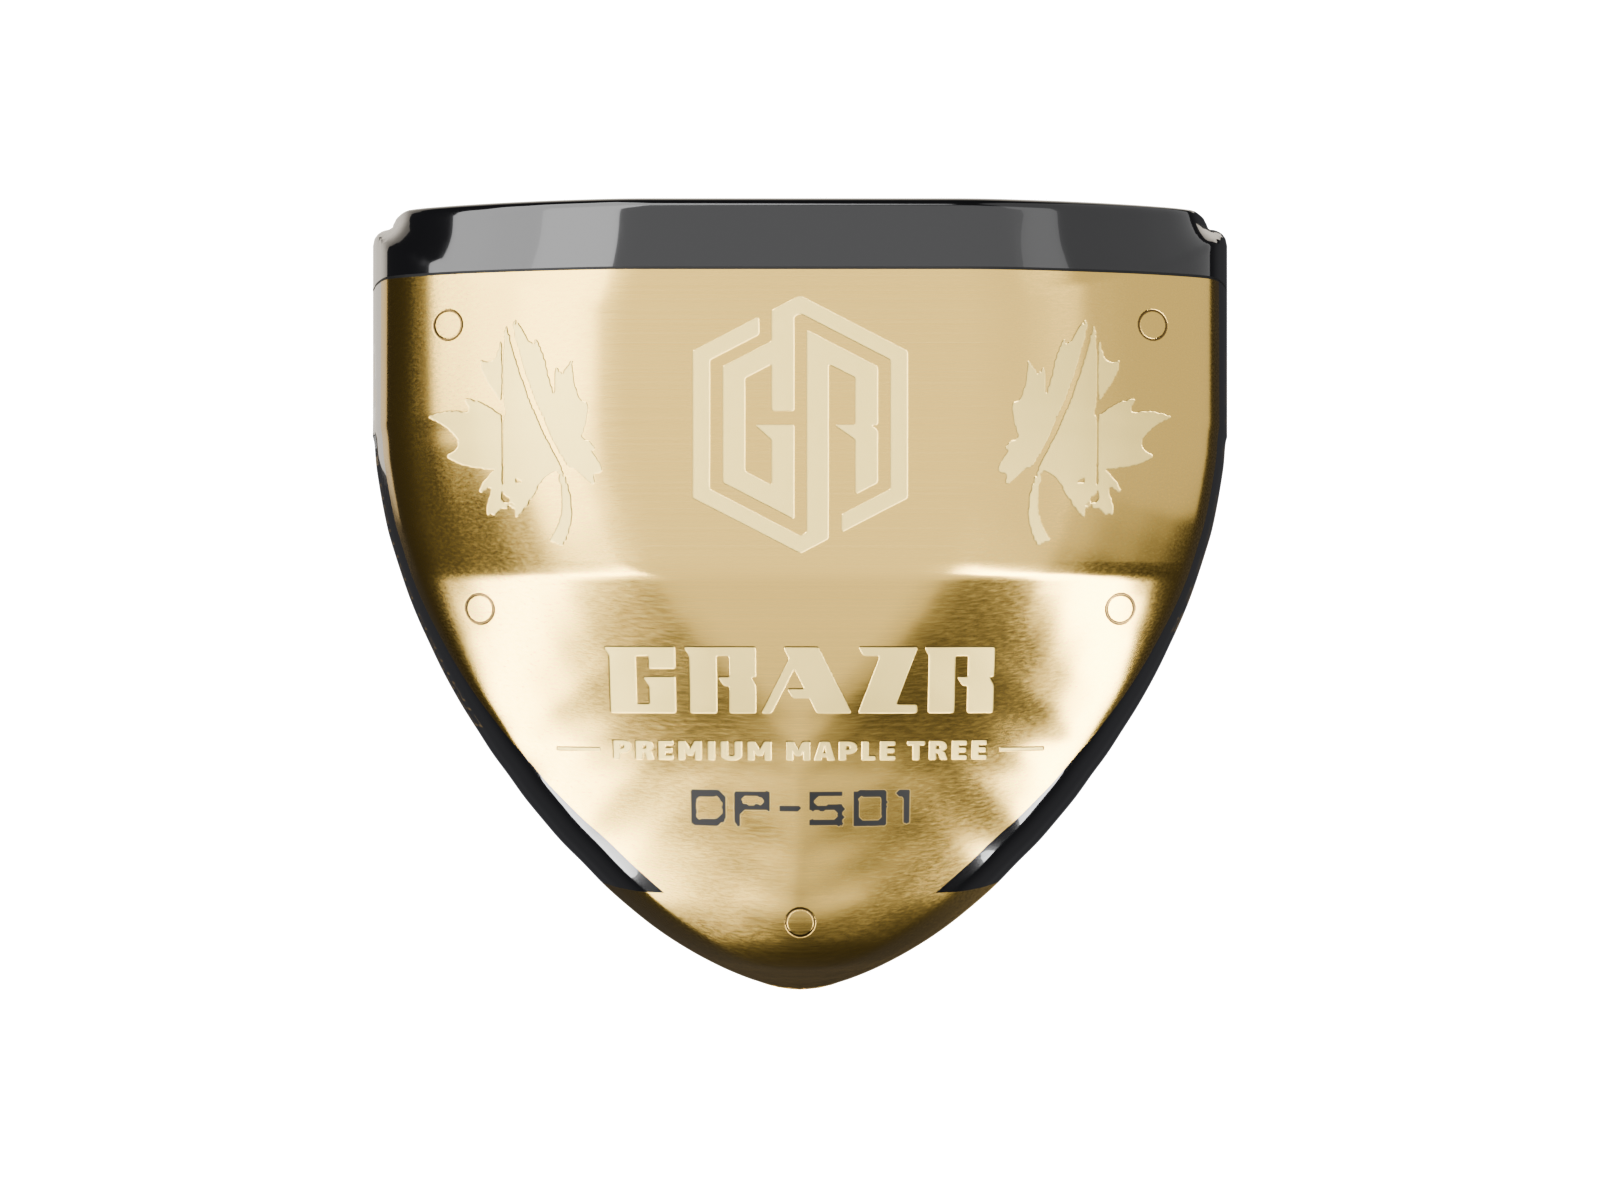
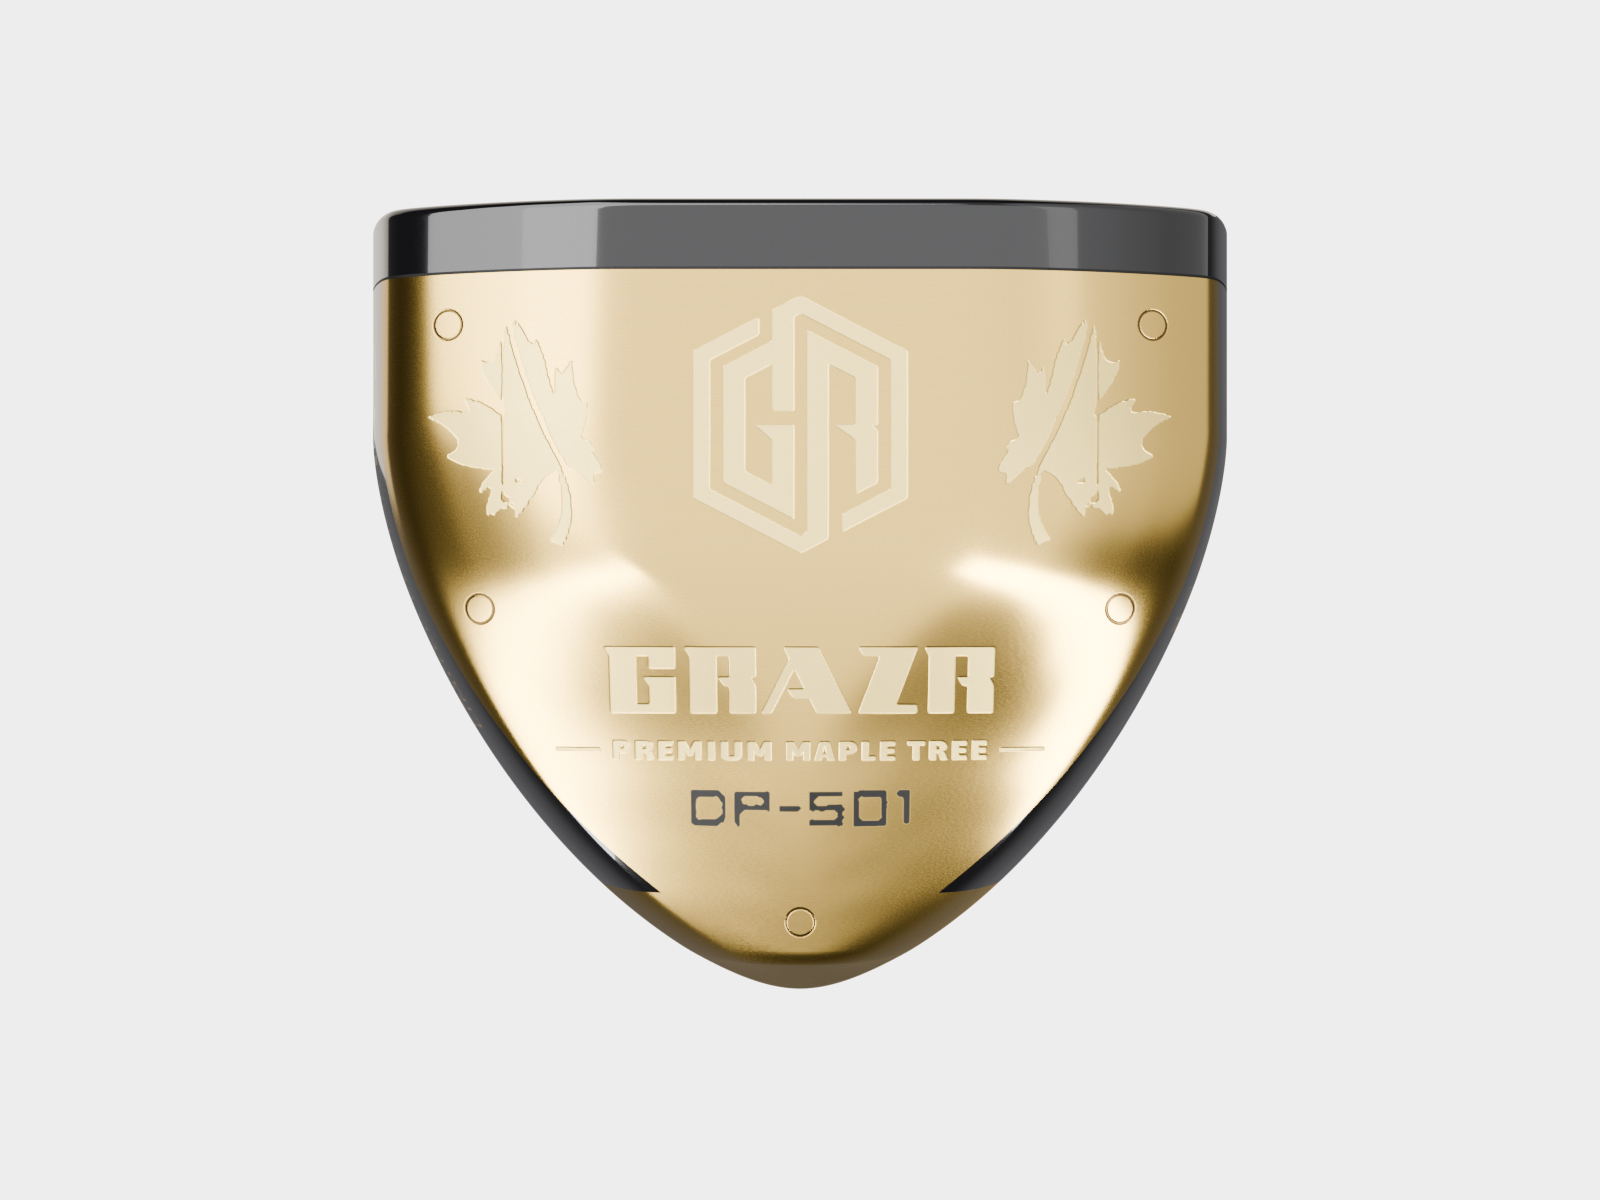
DP-501: deeper gold sand-blasted sole engraving (as in the sole photo); sole render
Claude-Session: https://claude.ai/code/session_01GCpT9mK9AWHbd4r5LVPQn2

diff --git a/3d-model-dp501/build_dp501.py b/3d-model-dp501/build_dp501.py
@@ -535,7 +535,7 @@ def brass(name, engraved=False, rough_range=(0.17, 0.25)):
         spark = node(nt, "ShaderNodeTexVoronoi", Scale=9.0)               # sand-blast grains (object mm)
         spark.feature = "F1"
         nt.links.new(coord.outputs["Object"], spark.inputs["Vector"])
-        color = mix_rgb(nt, e.outputs["Color"], BRASS, (0.95, 0.76, 0.30, 1))
+        color = mix_rgb(nt, e.outputs["Color"], BRASS, (0.96, 0.64, 0.13, 1))   # sand-blasted: deeper, more yellow gold
         color = mix_rgb(nt, r_.outputs["Color"], color, (0.18, 0.12, 0.05, 1))
         color = mix_rgb(nt, k.outputs["Color"], color, (0.012, 0.012, 0.012, 1))
         sr = node(nt, "ShaderNodeMapRange", **{"To Min": 0.38, "To Max": 0.62})
